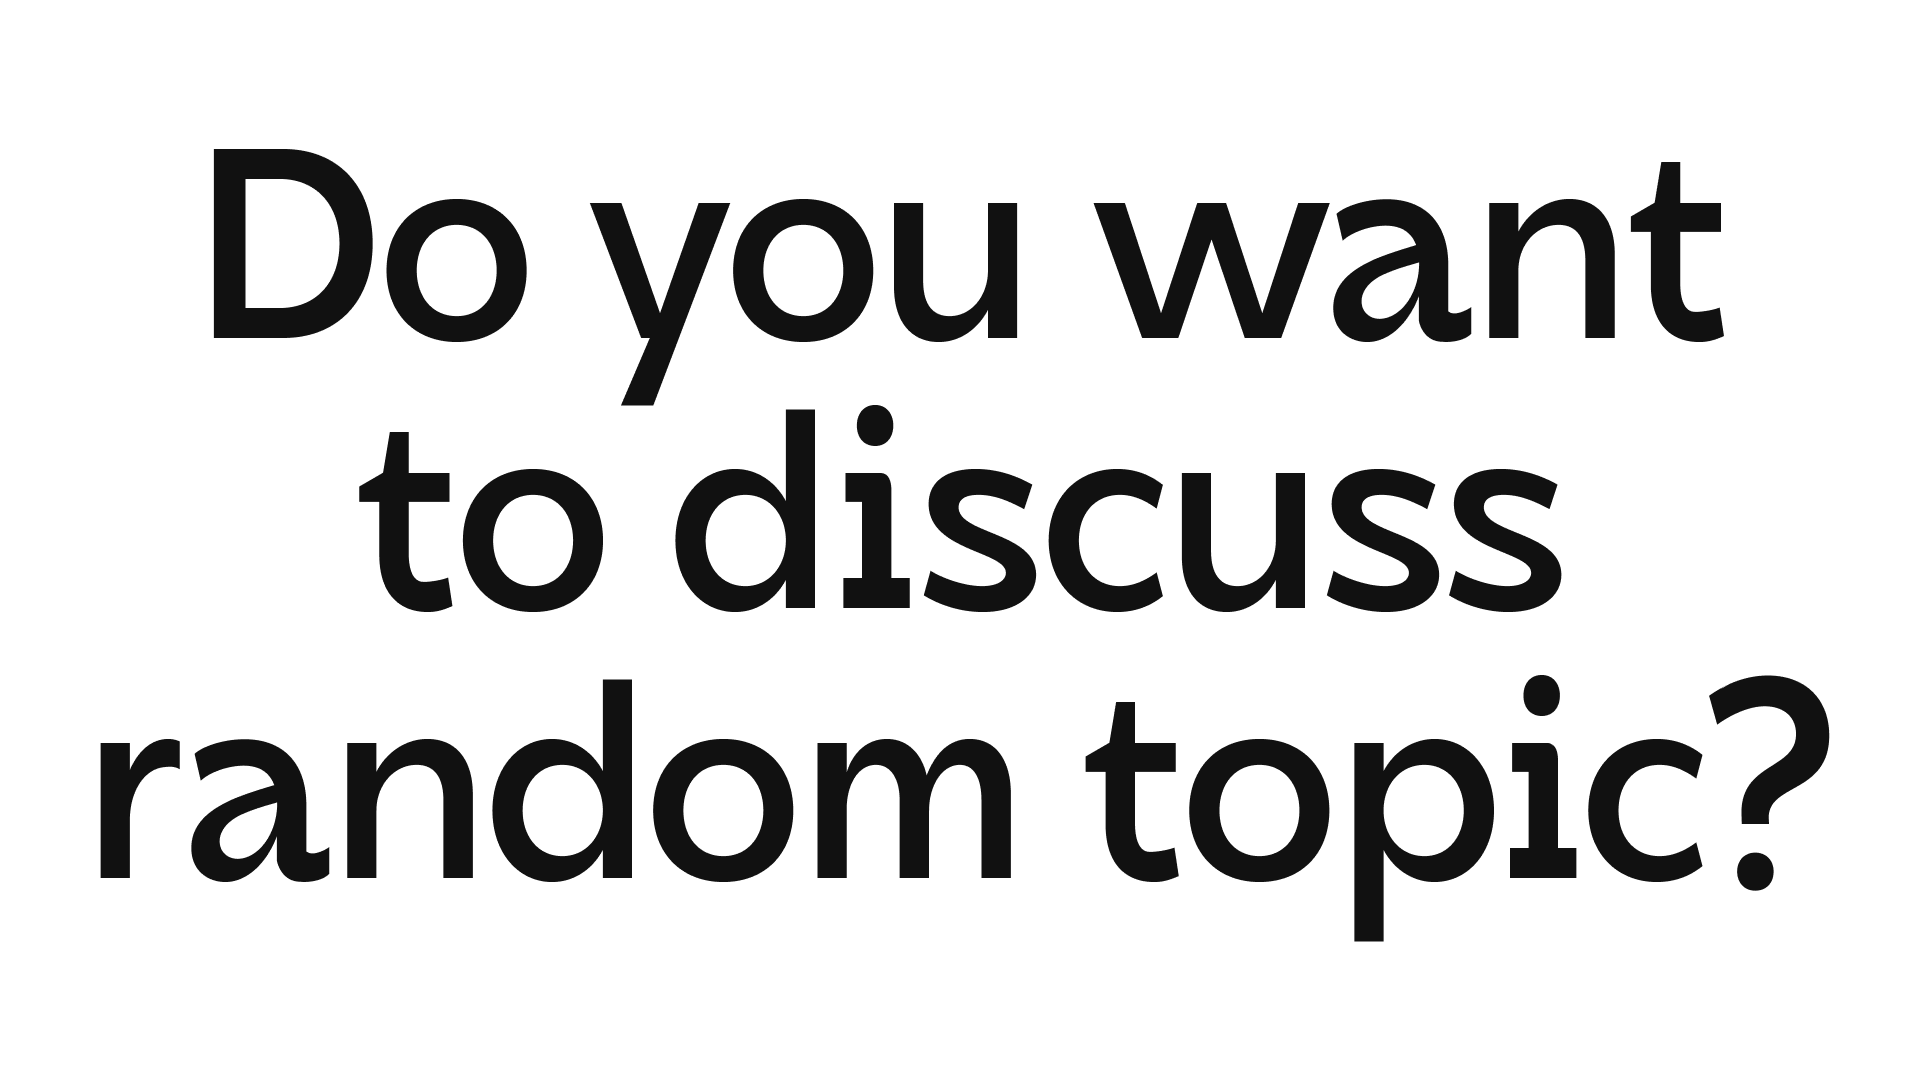
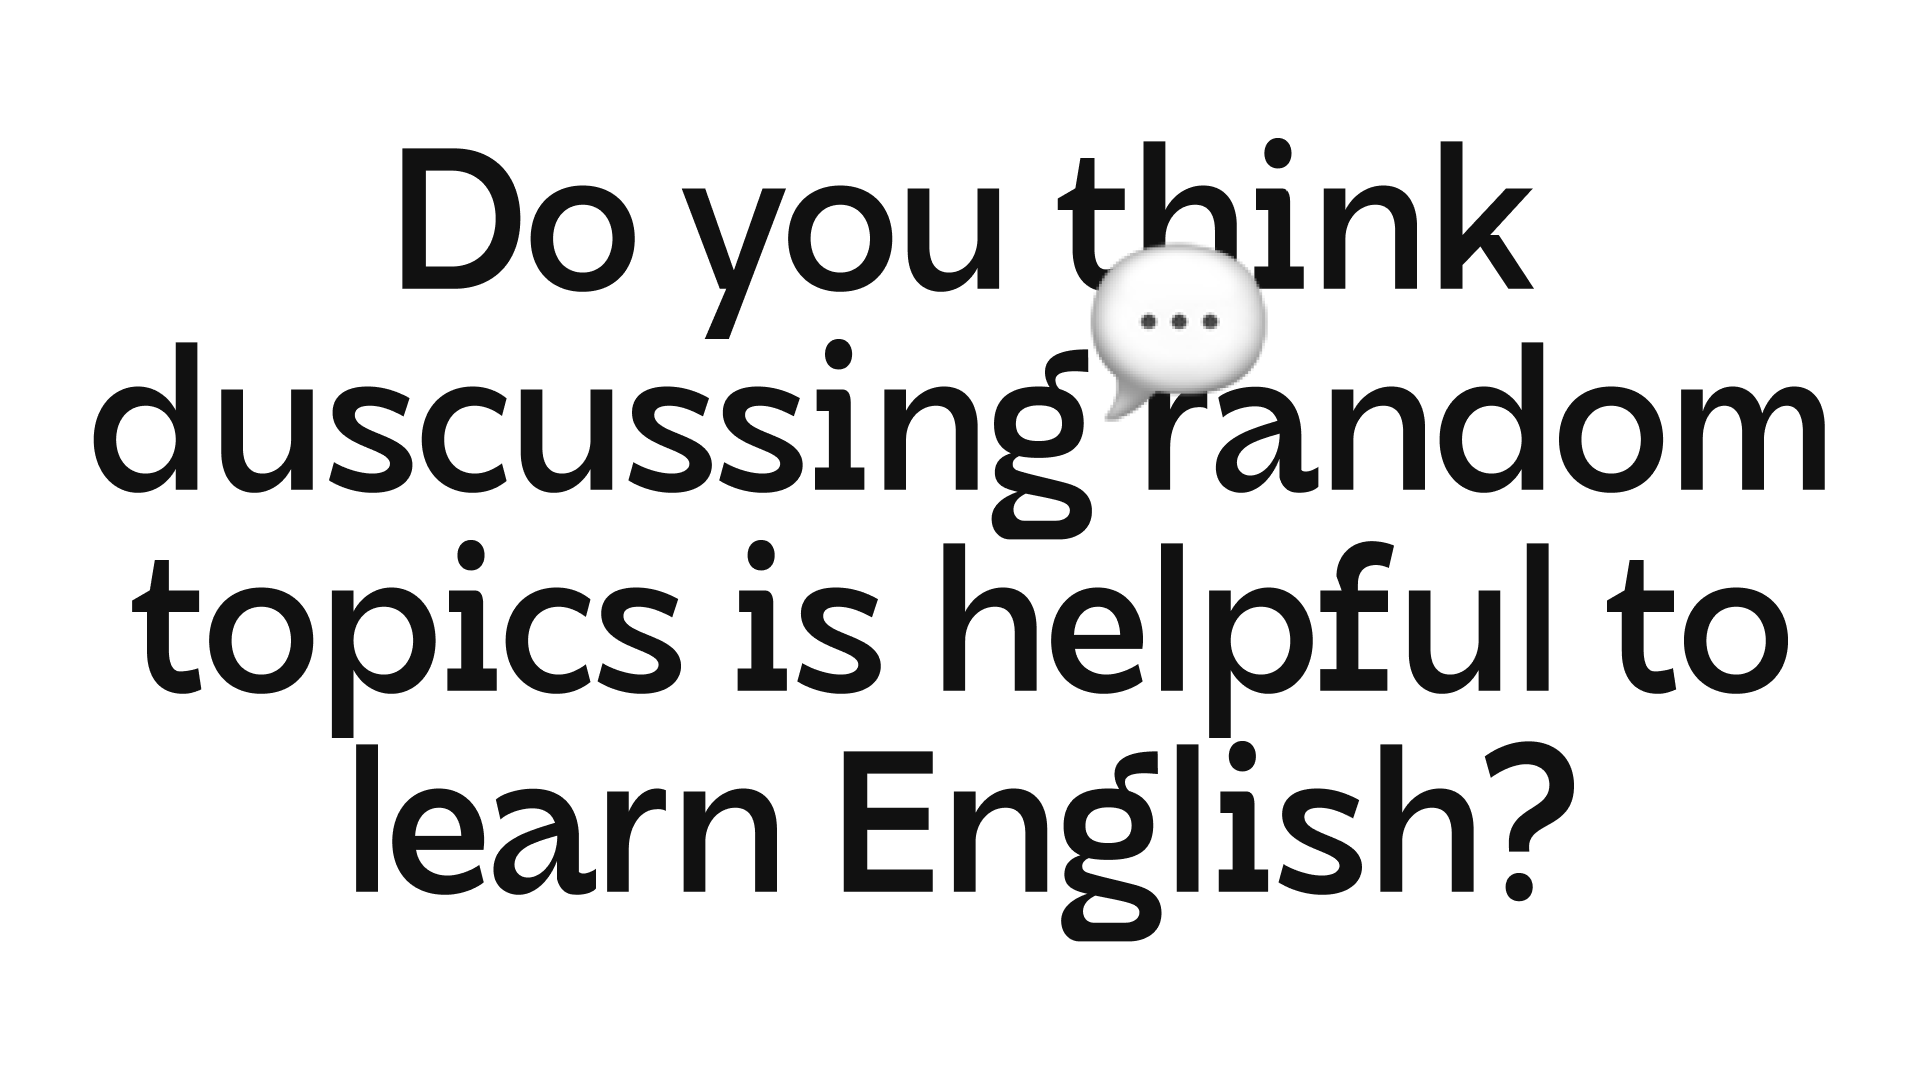
feat: animate the question change

Changed region(s): [[0.0312, 0.1222, 0.9688, 0.8861]]

diff --git a/index.html b/index.html
@@ -51,8 +51,28 @@
         bottom: 4vh;
         left: 5vw;
         width: 90vw;
-        color: #eee;
-        mix-blend-mode: difference;
+      }
+      .click {
+        display: inline-flex;
+        transition: transform 0.5s ease;
+      }
+      .question .outter {
+        display: inline-flex;
+        overflow: hidden;
+      }
+      .outter .inner {
+        transform: translate3d(0, 0, 0);
+        opacity: 1;
+        transition: transform 0.5s ease, opacity 0.5s ease;
+        display: inline-flex;
+      }
+      .preload .outter .inner {
+        transform: translate3d(0, 200%, 0) rotate(15deg);
+      }
+
+      .js-random:active .click {
+        transform: scale(0.8);
+        transition-duration: 0.1s;
       }
 
       @media (max-width: 767px) {
@@ -69,13 +89,23 @@
 
   <body>
     <div class="content js-random">
-      <div class="question js-question"></div>
-      <div class="helper">Click everywhere for the next random topic</div>
+      <div class="question js-question">
+        <span class="outter">
+          <span class="inner" style="line-height: 1.25em; transition-delay: 0.2s">Hi</span>
+        </span>
+        <span class="outter">
+          <span class="inner" style="line-height: 1.25em; transition-delay: 0.25s">✌</span>
+        </span>
+      </div>
+      <div class="helper">
+        <span class="click">Click</span> everywhere for the next random topic
+      </div>
     </div>
 
     <script>
       var question = document.querySelector('.js-question')
       var activeIndex = 0
+      var animating = false
       var list = [
         // Age
         'How are you doing?',
@@ -752,16 +782,45 @@
       ]
 
       function changeQuestion() {
-        question.innerText = list[activeIndex]
+        question.classList.add('preload')
+        animating = true
+
+        setTimeout(function () {
+          question.innerHTML = ''
+          var words = list[activeIndex].split(' ')
+          words.forEach(function (word, i) {
+            var outter = document.createElement('span')
+            outter.className = 'outter'
+            var inner = document.createElement('span')
+            inner.className = 'inner'
+            var space = document.createTextNode(' ')
+            inner.innerText = word
+            inner.style.transitionDelay = i / words.length / 4 + 's'
+            outter.appendChild(inner)
+            question.append(outter, ' ')
+          })
+          setTimeout(function () {
+            question.classList.remove('preload')
+            animating = false
+          }, 50)
+        }, 500)
       }
 
       document.querySelector('.js-random').addEventListener('click', function () {
+        if (animating) {
+          return
+        }
         activeIndex = Math.round(Math.random() * (list.length - 1))
         changeQuestion()
       })
 
-      activeIndex = Math.round(Math.random() * (list.length - 1))
-      changeQuestion()
+      document.addEventListener(
+        'DOMContentLoaded',
+        setTimeout(function () {
+          activeIndex = Math.round(Math.random() * (list.length - 1))
+          changeQuestion()
+        }, 800),
+      )
     </script>
   </body>
 </html>
